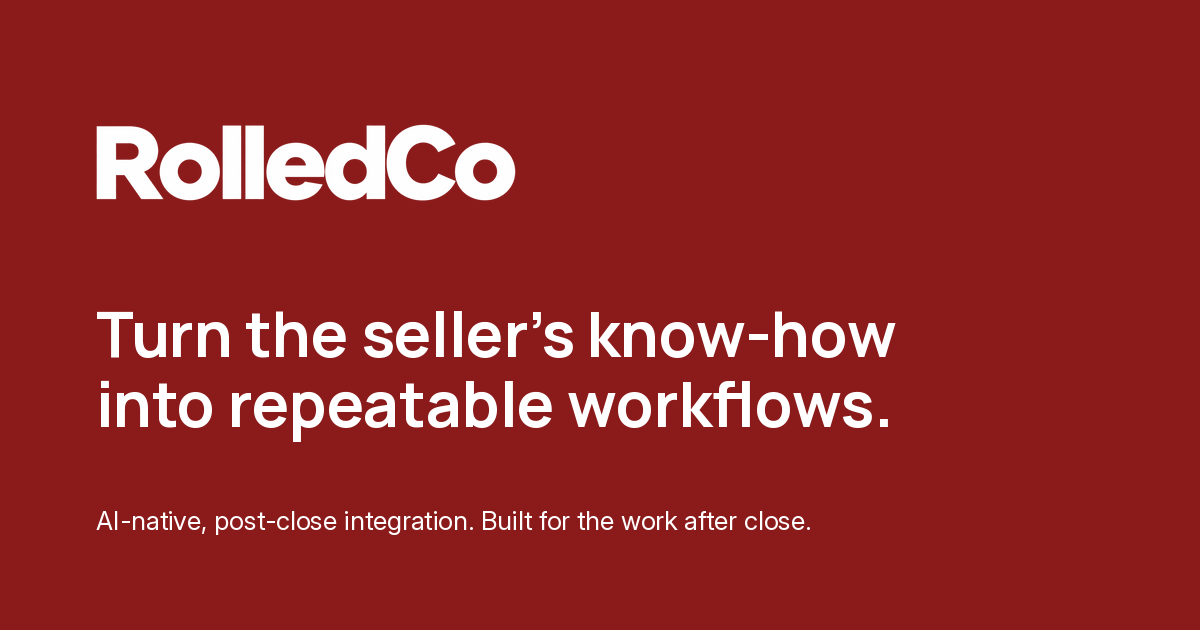
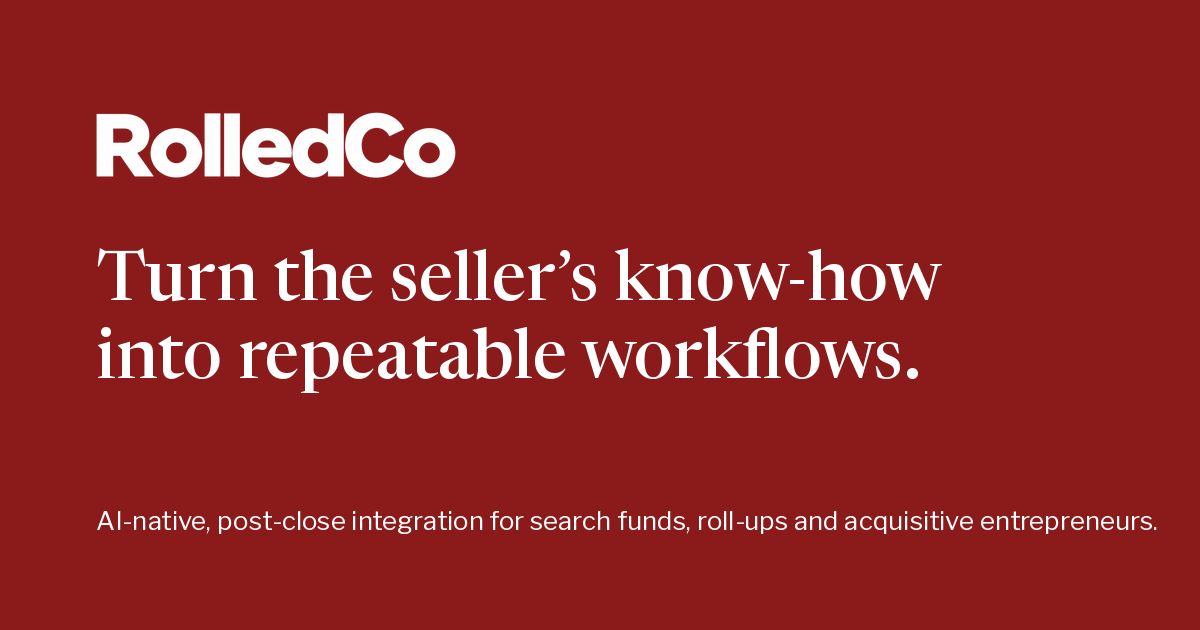
Regenerate the link preview image in the current typography; serve it as JPEG
Claude-Session: https://claude.ai/code/session_01Ajn5eajNoso6DnbsacPKgh

Changed region(s): [[0.0617, 0.3921, 0.8017, 0.6937], [0.0617, 0.181, 0.4317, 0.3317], [0.0617, 0.8143, 0.9558, 0.8444]]

diff --git a/site/index.html b/site/index.html
@@ -13,14 +13,16 @@
 <meta property="og:title" content="RolledCo | AI-Native, Post-Close Integration">
 <meta property="og:description" content="Turn the seller's know-how into repeatable workflows. In development and talking to buyers about what breaks after close.">
 <meta property="og:url" content="https://rolledco.com/">
-<meta property="og:image" content="https://rolledco.com/og-image.png">
+<meta property="og:image" content="https://rolledco.com/og-image.jpg">
+<meta property="og:image:secure_url" content="https://rolledco.com/og-image.jpg">
+<meta property="og:image:type" content="image/jpeg">
 <meta property="og:image:width" content="1200">
 <meta property="og:image:height" content="630">
 <meta property="og:image:alt" content="RolledCo. AI-native, post-close integration.">
 <meta name="twitter:card" content="summary_large_image">
 <meta name="twitter:title" content="RolledCo | AI-Native, Post-Close Integration">
 <meta name="twitter:description" content="Turn the seller's know-how into repeatable workflows. In development and talking to buyers about what breaks after close.">
-<meta name="twitter:image" content="https://rolledco.com/og-image.png">
+<meta name="twitter:image" content="https://rolledco.com/og-image.jpg">
 
 <link rel="icon" href="/favicon.ico" sizes="any">
 <link rel="icon" type="image/png" sizes="32x32" href="/favicon-32.png">
